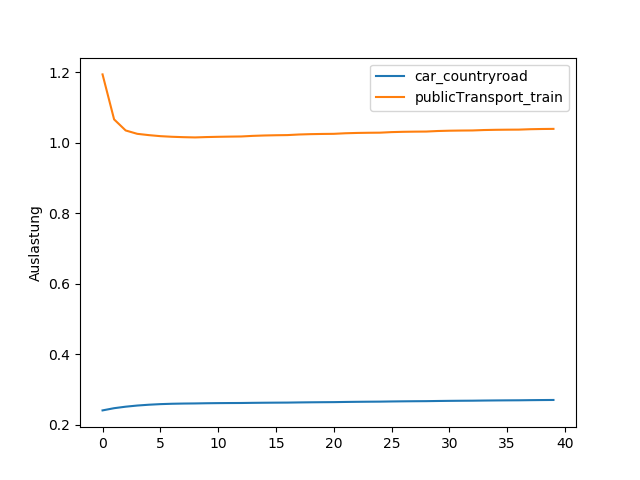
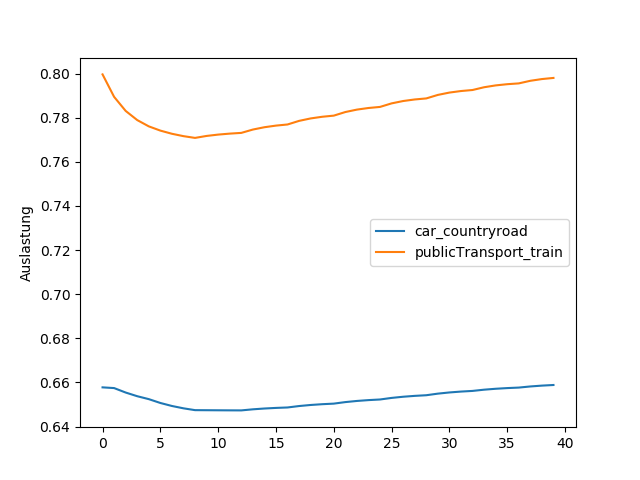
Capacity added

diff --git a/Infrastructure/ConInfrastructure.py b/Infrastructure/ConInfrastructure.py
@@ -58,11 +58,11 @@ def bildGraph():
     basicLoad = readBasicLoad()
 
     #--- add all edges to graph
-    addEdges(infraConnections[infra[0]], connections[0], defaultCapacity[connections[0]], basicLoad[connections[0]])
-    addEdges(infraConnections[infra[1]], connections[1], defaultCapacity[connections[1]], basicLoad[connections[1]])
-    addEdges(infraConnections[infra[2]], connections[2], defaultCapacity[connections[2]], basicLoad[connections[2]])
-    addEdges(infraConnections[infra[0]], connections[3], defaultCapacity[connections[3]], basicLoad[connections[3]])
-    addEdges(infraConnections[infra[0]], connections[4], defaultCapacity[connections[4]], basicLoad[connections[4]])
+    addEdges(infraConnections[infra[0]], connections[0], defaultCapacity[connections[0]], basicLoad[connections[0]],3)
+    addEdges(infraConnections[infra[1]], connections[1], defaultCapacity[connections[1]], basicLoad[connections[1]],3)
+    addEdges(infraConnections[infra[2]], connections[2], defaultCapacity[connections[2]], basicLoad[connections[2]],3)
+    addEdges(infraConnections[infra[0]], connections[3], defaultCapacity[connections[3]], basicLoad[connections[3]],4)
+    addEdges(infraConnections[infra[0]], connections[4], defaultCapacity[connections[4]], basicLoad[connections[4]],5)
 
 
     #--- read Cost
@@ -70,7 +70,7 @@ def bildGraph():
     costModes = weightReader()
     
         
-def addEdges(data, connection, capacity, basicLoad):
+def addEdges(data, connection, defaultcapacity, basicLoad, capacityColumn):
     for row in data:
         str = row.split(";")
         #Get Gemeindekennzahlen
@@ -80,9 +80,14 @@ def addEdges(data, connection, capacity, basicLoad):
         dist = int(str[2])
         #Get Level of Service data
         losData=1
+        #Get Capacity
+        capacity = int(str[capacityColumn])
+        #Set Default if -1
+        if capacity == -1:
+            capacity = defaultcapacity
 
         #Generate connection object
-        con = Connection(location_1, location_2, connection, dist, losData, capacity, basicLoad)
+        con = Connection(location_1, location_2, connection, dist, losData, defaultcapacity, basicLoad)
         
         #Save edge
         infraNetworkGraph.add_edge(location_1, location_2, con=con)

diff --git a/DataHandler.py b/DataHandler.py
@@ -571,20 +571,20 @@ def creatSimConfigFile(simID, listOfFiles, steps, jsonSimConfig, jsonParameter):
     outpath = '/'.join([standardOutpath, '-'.join(['scenario', jsonSimConfig["scenario_name"]]),
                         '-'.join([pathSimResultPerStepinFolder,jsonSimConfig['sim_ID']]), pathSimConfigOutput])
     startTimeObject = datetime.date(jsonSimConfig['start_year'], 1, 1)
-    endTimeObject = startTimeObject+datetime.timedelta(days=steps*365/12)
+    #endTimeObject = startTimeObject+datetime.timedelta(days=steps*365/12)
 
     #Simulation Config
     simulationID = ('simulationID', simID)
     simulationName = ('simulationName', jsonSimConfig['simulation_name'])
     simulationDescription = ('simulationDescription', jsonSimConfig['simulation_description'])
     startDate = ('startDate_YYYYMM', startTimeObject.strftime('%Y%m'))
-    endDate = ('endDate_YYYYMM', endTimeObject.strftime('%Y%m'))
+    #endDate = ('endDate_YYYYMM', endTimeObject.strftime('%Y%m'))
     simulationCalculationStepSize_days = (
         'simulationCalculationStepSize_months', int(12/jsonSimConfig["steps_per_year"]))
     simulationPresentationStepSize_days = (
         'simulationPresentationStepSize_months', int(12/jsonSimConfig["presentation_steps_per_year"]))
 
-    outDict = dict([simulationID, simulationName, simulationDescription, startDate, endDate, simulationCalculationStepSize_days, simulationPresentationStepSize_days,
+    outDict = dict([simulationID, simulationName, simulationDescription, startDate, simulationCalculationStepSize_days, simulationPresentationStepSize_days,
                     ('simulationResultStepFileNames', listOfFiles)])
 
     #Policy
